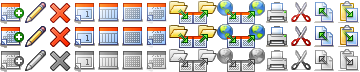
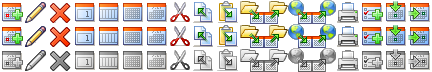
New addition and changes from attachment 155875 in bug 248399

diff --git a/calendar/sunbird/themes/winstripe/sunbird/calendar.css b/calendar/sunbird/themes/winstripe/sunbird/calendar.css
@@ -238,6 +238,22 @@
   list-style-image: url('chrome://calendar/content/sunbird_small.png');
 }
 
+/*--------------------------------------------------------------------
+ *   Calendar area navigation buttons
+ *-------------------------------------------------------------------*/
+
+.prevnextbuttons {
+	list-style-image: url("chrome://calendar/skin/prevnextarrow.png");
+	margin: 5px 15px;
+	cursor: pointer;
+}
+
+.updownbuttons {
+	list-style-image: url("chrome://calendar/skin/pageupdown.png");
+	margin: 5px 5px;
+	cursor: pointer;
+}
+
 /*
 *****************************
  MultiWeek
@@ -300,52 +316,50 @@
 }
 
 /*Previous/Next Buttons*/
-.updownbuttons{
-    list-style-image: url("chrome://calendar/skin/pageupdown.png");
-}
-#multiweek-next-button{
+
+#multiweek-next-button {
     -moz-box-align:end;
-    -moz-image-region: rect(120px 30px 150px 0);
+    -moz-image-region: rect(82px 20px 100px 0);
     cursor:pointer;
 }
-#multiweek-next-button:hover{
-    -moz-image-region: rect(120px 60px 150px 30px);
+#multiweek-next-button:hover {
+    -moz-image-region: rect(82px 40px 100px 20px);
 }
-#multiweek-next-button:hover:active{
-    -moz-image-region: rect(120px 90px 150px 60px);
+#multiweek-next-button:hover:active {
+    margin: 6px 4px 4px 6px;
 }
-#multiweek-previous-button{
+#multiweek-previous-button {
     -moz-box-align:start;
-    -moz-image-region: rect(90px 30px 120px 0);
+    -moz-image-region: rect(64px 20px 82px 0);
     cursor:pointer;
 }
-#multiweek-previous-button:hover{
-    -moz-image-region: rect(90px 60px 120px 30px);
+#multiweek-previous-button:hover {
+    -moz-image-region: rect(64px 40px 82px 20px);
 }
-#multiweek-previous-button:hover:active{
-    -moz-image-region: rect(90px 90px 120px 60px);
+#multiweek-previous-button:hover:active {
+    margin: 6px 4px 4px 6px;
 }
-#multiweek-nextpage-button{
+#multiweek-nextpage-button {
     -moz-box-align:end;
-    -moz-image-region: rect(45px 30px 90px 0);
+    -moz-image-region: rect(32px 20px 64px 0);
     cursor:pointer;
 }
-#multiweek-nextpage-button:hover{
-    -moz-image-region: rect(45px 60px 90px 30px);
+#multiweek-nextpage-button:hover {
+    -moz-image-region: rect(32px 40px 64px 20px);
 }
-#multiweek-nextpage-button:hover:active{
-    -moz-image-region: rect(45px 90px 90px 60px);
+#multiweek-nextpage-button:hover:active {
+    margin: 6px 4px 4px 6px;
 }
-#multiweek-previouspage-button{
+#multiweek-previouspage-button {
     -moz-box-align:start;
-    -moz-image-region: rect(0 30px 45px 0);
+    -moz-image-region: rect(0 20px 32px 0);
     cursor:pointer;
 }
-#multiweek-previouspage-button:hover{
-    -moz-image-region: rect(0 60px 45px 30px);
+#multiweek-previouspage-button:hover {
+    -moz-image-region: rect(0 40px 32px 20px);
 }
-#multiweek-previouspage-button:hover:active{
-    -moz-image-region: rect(0 90px 45px 60px);
+#multiweek-previouspage-button:hover:active {
+    margin: 6px 4px 4px 6px;
 }
 
 /*--------------------------------------------------------------------
@@ -456,30 +470,27 @@
 
 
 /*Previous/Next Buttons*/
-.prevnextbuttons{
-    list-style-image: url("chrome://calendar/skin/prevnextarrow.png");
-}
-#month-next-button{
+#month-next-button {
     -moz-box-align:end;
-    -moz-image-region: rect(33px 20px 66px 0);
+    -moz-image-region: rect(18px 18px 36px 0px);
     cursor:pointer;
 }
-#month-next-button:hover{
-    -moz-image-region: rect(33px 40px 66px 20px);
+#month-next-button:hover {
+    -moz-image-region: rect(18px 36px 36px 18px);
 }
-#month-next-button:hover:active{
-    -moz-image-region: rect(33px 60px 66px 40px);
+#month-next-button:hover:active {
+    margin: 6px 14px 4px 16px;
 }
-#month-previous-button{
+#month-previous-button {
     -moz-box-align:start;
-    -moz-image-region: rect(0 20px 33px 0);
+    -moz-image-region: rect(0px 18px 18px 0px);
     cursor:pointer;
 }
-#month-previous-button:hover{
-    -moz-image-region: rect(0 40px 33px 20px);
+#month-previous-button:hover {
+    -moz-image-region: rect(0px 36px 18px 18px);
 }
-#month-previous-button:hover:active{
-    -moz-image-region: rect(0 60px 33px 40px);
+#month-previous-button:hover:active {
+    margin: 6px 14px 4px 16px;
 }
 
 
@@ -705,38 +716,32 @@
  * Next and Previous buttons.
  *-------------------------------------------------------------------*/
 
-#day-next-button
-{
+#day-next-button {
     -moz-box-align:end;
-    -moz-image-region: rect(33px 20px 66px 0);
+    -moz-image-region: rect(18px 18px 36px 0px);
     cursor:pointer;
 }
 
-#day-next-button:hover
-{
-    -moz-image-region: rect(33px 40px 66px 20px);
+#day-next-button:hover {
+    -moz-image-region: rect(18px 36px 36px 18px);
 }
 
-#day-next-button:hover:active
-{
-    -moz-image-region: rect(33px 60px 66px 40px);
+#day-next-button:hover:active {
+    margin: 6px 14px 4px 16px;
 }
 
-#day-previous-button
-{
+#day-previous-button {
     -moz-box-align:start;
-    -moz-image-region: rect(0 20px 33px 0);
+    -moz-image-region: rect(0px 18px 18px 0px);
     cursor:pointer;
 }
 
-#day-previous-button:hover
-{
-    -moz-image-region: rect(0 40px 33px 20px);
+#day-previous-button:hover {
+    -moz-image-region: rect(0px 36px 18px 18px);
 }
 
-#day-previous-button:hover:active
-{
-    -moz-image-region: rect(0 60px 33px 40px);
+#day-previous-button:hover:active {
+    margin: 6px 14px 4px 16px;
 }
 
 /*--------------------------------------------------------------------
@@ -994,38 +999,32 @@
 	 min-height:	54px;
 }
 
-#week-next-button
-{
+#week-next-button {
     -moz-box-align:end;
-    -moz-image-region: rect(33px 20px 66px 0);
+    -moz-image-region: rect(18px 18px 36px 0px);
     cursor:pointer;
 }
 
-#week-next-button:hover
-{
-    -moz-image-region: rect(33px 40px 66px 20px);
+#week-next-button:hover {
+    -moz-image-region: rect(18px 36px 36px 18px);
 }
 
-#week-next-button:hover:active
-{
-    -moz-image-region: rect(33px 60px 66px 40px);
+#week-next-button:hover:active {
+    margin: 6px 14px 4px 16px;
 }
 
-#week-previous-button
-{
+#week-previous-button {
     -moz-box-align:start;
-    -moz-image-region: rect(0 20px 33px 0);
+    -moz-image-region: rect(0px 18px 18px 0px);
     cursor:pointer;
 }
 
-#week-previous-button:hover
-{
-    -moz-image-region: rect(0 40px 33px 20px);
+#week-previous-button:hover {
+    -moz-image-region: rect(0px 36px 18px 18px);
 }
 
-#week-previous-button:hover:active
-{
-    -moz-image-region: rect(0 60px 33px 40px);
+#week-previous-button:hover:active {
+    margin: 6px 14px 4px 16px;
 }
 
 #week-next-button-box
